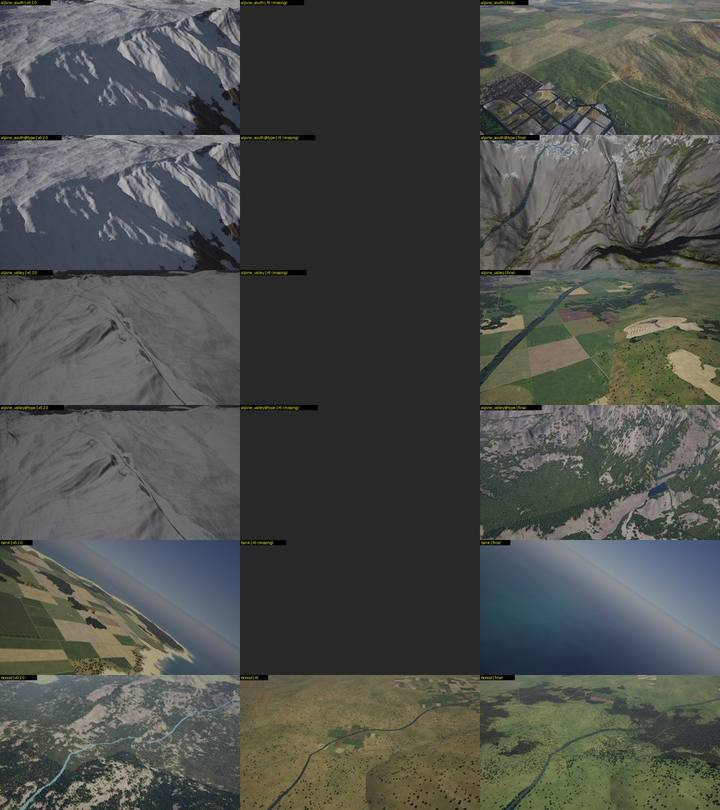
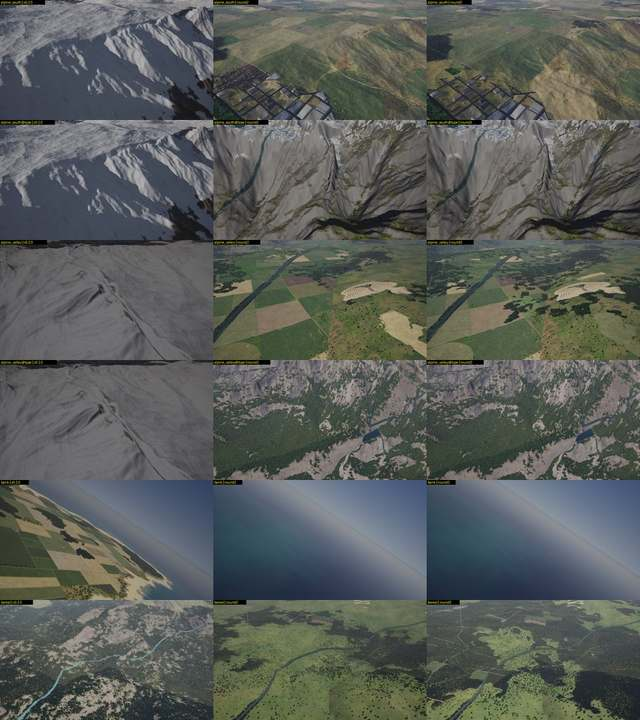
docs/next: round-3 A/B sheets (v0.2.0 | round 2 | round 3) and stats, status

diff --git a/docs/next/ab/next_quality/stats.md b/docs/next/ab/next_quality/stats.md
@@ -1,98 +1,117 @@
 | scene | run | saturation | hf energy | flat blocks | edge contrast |
 |---|---|---|---|---|---|
 | alpine_south | v0.2.0 | 0.195 | 6.80 | 0.530 | 36.1 |
-| alpine_south | final | 0.194 | 18.00 | 0.002 | 14.6 |
+| alpine_south | round2 | 0.194 | 18.00 | 0.002 | 14.6 |
+| alpine_south | round3 | 0.207 | 17.73 | 0.002 | 13.3 |
 | alpine_south@type | v0.2.0 | 0.195 | 6.80 | 0.530 | 36.1 |
-| alpine_south@type | final | 0.111 | 11.53 | 0.030 | 9.1 |
+| alpine_south@type | round2 | 0.111 | 11.53 | 0.030 | 9.1 |
+| alpine_south@type | round3 | 0.111 | 11.53 | 0.030 | 9.1 |
 | alpine_valley | v0.2.0 | 0.020 | 3.23 | 0.175 | 7.9 |
-| alpine_valley | final | 0.308 | 12.18 | 0.014 | 20.5 |
+| alpine_valley | round2 | 0.308 | 12.18 | 0.014 | 20.5 |
+| alpine_valley | round3 | 0.281 | 15.59 | 0.004 | 19.3 |
 | alpine_valley@type | v0.2.0 | 0.020 | 3.23 | 0.175 | 7.9 |
-| alpine_valley@type | final | 0.169 | 29.53 | 0.003 | 6.4 |
+| alpine_valley@type | round2 | 0.169 | 29.53 | 0.003 | 6.4 |
+| alpine_valley@type | round3 | 0.169 | 29.53 | 0.003 | 6.4 |
 | bank | v0.2.0 | 0.244 | 9.45 | 0.337 | 25.9 |
-| bank | final | 0.328 | 2.81 | 0.830 | 2.9 |
+| bank | round2 | 0.328 | 2.81 | 0.830 | 2.9 |
+| bank | round3 | 0.328 | 2.81 | 0.830 | 2.9 |
 | boreal | v0.2.0 | 0.129 | 17.89 | 0.000 | 5.0 |
-| boreal | r6 | 0.368 | 12.96 | 0.010 | 19.5 |
-| boreal | final | 0.294 | 22.44 | 0.005 | 12.5 |
+| boreal | round2 | 0.294 | 22.44 | 0.005 | 12.5 |
+| boreal | round3 | 0.224 | 29.99 | 0.004 | 7.3 |
 | boreal@type | v0.2.0 | 0.129 | 17.89 | 0.000 | 5.0 |
-| boreal@type | r6 | 0.221 | 27.35 | 0.000 | 8.1 |
-| boreal@type | final | 0.229 | 22.32 | 0.000 | 10.5 |
+| boreal@type | round2 | 0.229 | 22.32 | 0.000 | 10.5 |
+| boreal@type | round3 | 0.229 | 22.32 | 0.000 | 10.5 |
 | braided | v0.2.0 | 0.212 | 32.29 | 0.122 | 6.7 |
-| braided | r6 | 0.123 | 11.41 | 0.040 | 6.9 |
-| braided | final | 0.123 | 11.47 | 0.040 | 6.9 |
+| braided | round2 | 0.123 | 11.47 | 0.040 | 6.9 |
+| braided | round3 | 0.123 | 11.47 | 0.040 | 6.9 |
 | canyon | v0.2.0 | 0.479 | 6.53 | 0.001 | 4.4 |
-| canyon | final | 0.291 | 49.90 | 0.001 | 5.5 |
+| canyon | round2 | 0.291 | 49.90 | 0.001 | 5.5 |
+| canyon | round3 | 0.290 | 50.30 | 0.001 | 5.5 |
 | canyon@type | v0.2.0 | 0.479 | 6.53 | 0.001 | 4.4 |
-| canyon@type | r6 | 0.318 | 5.26 | 0.142 | 12.3 |
-| canyon@type | final | 0.318 | 5.26 | 0.140 | 12.3 |
+| canyon@type | round2 | 0.318 | 5.26 | 0.140 | 12.3 |
+| canyon@type | round3 | 0.319 | 4.72 | 0.129 | 5.9 |
 | coast | v0.2.0 | 0.298 | 8.90 | 0.270 | 24.5 |
-| coast | final | 0.433 | 2.88 | 0.932 | 2.8 |
+| coast | round2 | 0.433 | 2.88 | 0.932 | 2.8 |
+| coast | round3 | 0.433 | 2.88 | 0.932 | 2.8 |
 | coast@type | v0.2.0 | 0.298 | 8.90 | 0.270 | 24.5 |
-| coast@type | final | 0.314 | 10.52 | 0.474 | 38.6 |
+| coast@type | round2 | 0.314 | 10.52 | 0.474 | 38.6 |
+| coast@type | round3 | 0.314 | 10.38 | 0.469 | 38.3 |
 | desert_coast | v0.2.0 | 0.404 | 3.10 | 0.370 | 16.3 |
-| desert_coast | final | 0.284 | 4.10 | 0.489 | 7.2 |
+| desert_coast | round2 | 0.284 | 4.10 | 0.489 | 7.2 |
+| desert_coast | round3 | 0.284 | 4.10 | 0.489 | 7.2 |
 | desert_coast@type | v0.2.0 | 0.404 | 3.10 | 0.370 | 16.3 |
-| desert_coast@type | r6 | 0.356 | 9.34 | 0.187 | 12.6 |
-| desert_coast@type | final | 0.355 | 9.80 | 0.188 | 14.1 |
+| desert_coast@type | round2 | 0.355 | 9.80 | 0.188 | 14.1 |
+| desert_coast@type | round3 | 0.375 | 11.37 | 0.095 | 12.7 |
 | dunes | v0.2.0 | 0.340 | 8.41 | 0.039 | 6.5 |
-| dunes | final | 0.195 | 34.74 | 0.005 | 4.7 |
+| dunes | round2 | 0.195 | 34.74 | 0.005 | 4.7 |
+| dunes | round3 | 0.190 | 34.50 | 0.003 | 4.6 |
 | dunes@type | v0.2.0 | 0.340 | 8.41 | 0.039 | 6.5 |
-| dunes@type | final | 0.385 | 5.83 | 0.013 | 4.4 |
+| dunes@type | round2 | 0.385 | 5.83 | 0.013 | 4.4 |
+| dunes@type | round3 | 0.389 | 7.38 | 0.000 | 4.2 |
 | dusk | v0.2.0 | 0.169 | 5.19 | 0.044 | 5.1 |
-| dusk | final | 0.114 | 4.06 | 0.354 | 7.2 |
+| dusk | round2 | 0.114 | 4.06 | 0.354 | 7.2 |
+| dusk | round3 | 0.130 | 4.08 | 0.395 | 7.6 |
 | farmland | v0.2.0 | 0.340 | 10.42 | 0.030 | 20.8 |
-| farmland | r6 | 0.331 | 11.09 | 0.140 | 29.7 |
-| farmland | final | 0.318 | 8.77 | 0.141 | 25.1 |
+| farmland | round2 | 0.318 | 8.77 | 0.141 | 25.1 |
+| farmland | round3 | 0.305 | 7.56 | 0.063 | 19.8 |
 | farmland@type | v0.2.0 | 0.340 | 10.42 | 0.030 | 20.8 |
-| farmland@type | r6 | 0.304 | 8.96 | 0.025 | 15.3 |
-| farmland@type | final | 0.318 | 5.60 | 0.286 | 15.2 |
+| farmland@type | round2 | 0.318 | 5.60 | 0.286 | 15.2 |
+| farmland@type | round3 | 0.337 | 6.06 | 0.090 | 14.9 |
 | forest | v0.2.0 | 0.202 | 17.92 | 0.002 | 4.2 |
-| forest | r6 | 0.295 | 13.90 | 0.025 | 22.7 |
-| forest | final | 0.280 | 12.11 | 0.025 | 22.1 |
+| forest | round2 | 0.280 | 12.11 | 0.025 | 22.1 |
+| forest | round3 | 0.270 | 16.28 | 0.005 | 19.9 |
 | forest@type | v0.2.0 | 0.202 | 17.92 | 0.002 | 4.2 |
-| forest@type | r6 | 0.307 | 30.75 | 0.000 | 5.8 |
-| forest@type | final | 0.317 | 29.00 | 0.000 | 6.2 |
-| fp_forest | r6 | 0.155 | 30.98 | 0.029 | 6.0 |
-| fp_forest | final | 0.160 | 28.83 | 0.040 | 6.8 |
-| fp_town | r6 | 0.281 | 14.41 | 0.096 | 20.7 |
-| fp_town | final | 0.274 | 13.77 | 0.090 | 22.0 |
+| forest@type | round2 | 0.317 | 29.00 | 0.000 | 6.2 |
+| forest@type | round3 | 0.317 | 28.99 | 0.000 | 6.2 |
+| fp_forest | round2 | 0.160 | 28.83 | 0.040 | 6.8 |
+| fp_forest | round3 | 0.160 | 28.83 | 0.040 | 6.8 |
+| fp_town | round2 | 0.274 | 13.77 | 0.090 | 22.0 |
+| fp_town | round3 | 0.286 | 13.31 | 0.039 | 19.3 |
 | golden | v0.2.0 | 0.166 | 11.29 | 0.112 | 12.4 |
-| golden | r6 | 0.159 | 16.49 | 0.014 | 8.4 |
-| golden | final | 0.155 | 16.38 | 0.018 | 8.7 |
+| golden | round2 | 0.155 | 16.38 | 0.018 | 8.7 |
+| golden | round3 | 0.165 | 16.56 | 0.020 | 9.7 |
 | golden@type | v0.2.0 | 0.166 | 11.29 | 0.112 | 12.4 |
-| golden@type | r6 | 0.300 | 5.87 | 0.357 | 10.5 |
-| golden@type | final | 0.309 | 6.07 | 0.348 | 9.1 |
+| golden@type | round2 | 0.309 | 6.07 | 0.348 | 9.1 |
+| golden@type | round3 | 0.310 | 6.03 | 0.353 | 9.3 |
 | low | v0.2.0 | 0.414 | 5.37 | 0.111 | 3.9 |
-| low | r6 | 0.402 | 5.58 | 0.249 | 24.1 |
-| low | final | 0.405 | 4.42 | 0.266 | 14.6 |
+| low | round2 | 0.405 | 4.42 | 0.266 | 14.6 |
+| low | round3 | 0.348 | 3.89 | 0.224 | 7.8 |
 | mountains | v0.2.0 | 0.098 | 14.87 | 0.035 | 4.7 |
-| mountains | final | 0.226 | 20.44 | 0.000 | 12.6 |
+| mountains | round2 | 0.226 | 20.44 | 0.000 | 12.6 |
+| mountains | round3 | 0.245 | 20.17 | 0.000 | 13.8 |
 | mountains@type | v0.2.0 | 0.098 | 14.87 | 0.035 | 4.7 |
-| mountains@type | final | 0.212 | 21.77 | 0.200 | 20.1 |
+| mountains@type | round2 | 0.212 | 21.77 | 0.200 | 20.1 |
+| mountains@type | round3 | 0.212 | 21.77 | 0.200 | 20.1 |
 | night | v0.2.0 | 0.450 | 27.41 | 0.013 | 7.0 |
-| night | final | 0.802 | 22.28 | 0.000 | 2.9 |
+| night | round2 | 0.802 | 22.28 | 0.000 | 2.9 |
+| night | round3 | 0.802 | 22.27 | 0.000 | 2.9 |
 | river | v0.2.0 | 0.279 | 18.77 | 0.088 | 11.9 |
-| river | r6 | 0.296 | 9.85 | 0.162 | 15.9 |
-| river | final | 0.263 | 11.65 | 0.110 | 16.9 |
+| river | round2 | 0.263 | 11.65 | 0.110 | 16.9 |
+| river | round3 | 0.242 | 10.66 | 0.098 | 15.4 |
 | taiga_river | v0.2.0 | 0.165 | 21.84 | 0.041 | 5.1 |
-| taiga_river | r6 | 0.174 | 24.16 | 0.065 | 11.8 |
-| taiga_river | final | 0.185 | 14.93 | 0.055 | 29.3 |
+| taiga_river | round2 | 0.185 | 14.93 | 0.055 | 29.3 |
+| taiga_river | round3 | 0.175 | 23.87 | 0.053 | 15.3 |
 | taiga_river@type | v0.2.0 | 0.165 | 21.84 | 0.041 | 5.1 |
-| taiga_river@type | r6 | 0.171 | 38.00 | 0.000 | 6.6 |
-| taiga_river@type | final | 0.181 | 34.86 | 0.000 | 8.4 |
+| taiga_river@type | round2 | 0.181 | 34.86 | 0.000 | 8.4 |
+| taiga_river@type | round3 | 0.181 | 34.86 | 0.000 | 8.4 |
 | terminal_lake | v0.2.0 | 0.287 | 4.57 | 0.498 | 37.8 |
-| terminal_lake | final | 0.262 | 4.11 | 0.567 | 17.5 |
+| terminal_lake | round2 | 0.262 | 4.11 | 0.567 | 17.5 |
+| terminal_lake | round3 | 0.259 | 3.98 | 0.551 | 14.5 |
 | town | v0.2.0 | 0.193 | 22.91 | 0.038 | 8.7 |
-| town | final | 0.308 | 7.50 | 0.128 | 20.8 |
+| town | round2 | 0.308 | 7.50 | 0.128 | 20.8 |
+| town | round3 | 0.308 | 9.37 | 0.025 | 21.3 |
 | town@type | v0.2.0 | 0.193 | 22.91 | 0.038 | 8.7 |
-| town@type | final | 0.279 | 29.65 | 0.016 | 15.9 |
+| town@type | round2 | 0.279 | 29.65 | 0.016 | 15.9 |
+| town@type | round3 | 0.230 | 48.23 | 0.000 | 7.1 |
 | tropics | v0.2.0 | 0.253 | 22.99 | 0.190 | 10.2 |
-| tropics | final | 0.179 | 6.36 | 0.652 | 24.0 |
+| tropics | round2 | 0.179 | 6.36 | 0.652 | 24.0 |
+| tropics | round3 | 0.179 | 6.37 | 0.652 | 24.0 |
 | tropics@type | v0.2.0 | 0.253 | 22.99 | 0.190 | 10.2 |
-| tropics@type | r6 | 0.263 | 26.64 | 0.000 | 6.6 |
-| tropics@type | final | 0.269 | 28.28 | 0.000 | 7.0 |
+| tropics@type | round2 | 0.269 | 28.28 | 0.000 | 7.0 |
+| tropics@type | round3 | 0.244 | 27.84 | 0.000 | 6.9 |
 | volcano | v0.2.0 | 0.205 | 23.29 | 0.002 | 5.9 |
-| volcano | r6 | 0.185 | 34.93 | 0.001 | 5.8 |
-| volcano | final | 0.197 | 37.80 | 0.002 | 6.1 |
+| volcano | round2 | 0.197 | 37.80 | 0.002 | 6.1 |
+| volcano | round3 | 0.197 | 37.80 | 0.002 | 6.1 |
 | volcano@type | v0.2.0 | 0.205 | 23.29 | 0.002 | 5.9 |
-| volcano@type | r6 | 0.197 | 27.43 | 0.097 | 5.6 |
-| volcano@type | final | 0.200 | 28.14 | 0.098 | 6.2 |
+| volcano@type | round2 | 0.200 | 28.14 | 0.098 | 6.2 |
+| volcano@type | round3 | 0.202 | 27.92 | 0.098 | 6.2 |

diff --git a/docs/next/README.md b/docs/next/README.md
@@ -50,10 +50,14 @@ ids = w.tile(16, 39117, 25113, "instance")                                      
 Compared with v0.2.0 at the same poses ([`ab/`](#ab-against-v020)), `next` has more varied
 landscapes but looks worse in places, which is why it is not the default:
 
-- **Fields:** irregular field systems are four-sided cadastral parcels that read flatter than
-  v0.2.0's fields from 1 km and up; smallholder mosaics speckle at 10 km.
-- **Towns** can grow together into large built areas; **lakes** can look broken where rivers,
-  basins and kits meet.
+- **Fields:** irregular field systems are four-sided cadastral parcels; since round 3 they are
+  about v0.2.0's size and texture, but streams in dry farmland carry fewer tree lines and
+  survey-grid regions are large uniform quarter sections; smallholder mosaics speckle at 10 km.
+- **Towns** draw one street grid each (round 3) but their suburbs are sparser than v0.2.0's
+  dense blocks and can grow together into large built areas; **lakes** can look broken where
+  rivers, basins and kits meet.
+- **Deltas** still show a pale geometric wedge near the apex; barchan plains, warm forests
+  (big round crowns) and volcano scenes differ from v0.2.0's look.
 - **Speed:** tiles cost about 2–3× classic's on a GPU (Tesla P4, 64 cold tiles at z12 / z14 /
   z16: 11.2 / 6.5 / 5.6 s against 3.8 / 3.4 / 2.9 s), mostly the kits' pass B and the host-built
   routes of a new area.
@@ -148,7 +152,7 @@ fields at 53° N, and a hard, circular biome border in the oblique view (one of 
 `scripts/ab_v020/<scene>.yaml` are the same scenes with `generator: next`, and
 `<scene>@type.yaml` the same camera at a place of the same landscape type in next's world.
 [`ab/next_quality/`](ab/next_quality/) has the sheets of the latest comparison (columns:
-v0.2.0, an earlier round, the current state) and their image statistics (`stats.md`).
+v0.2.0, round 2, round 3) and their image statistics (`stats.md`).
 
 ```sh
 scripts/ab_v020.py render --terrain target/release/terrain --out /tmp/ab [SCENE ...]   # on a GPU machine
